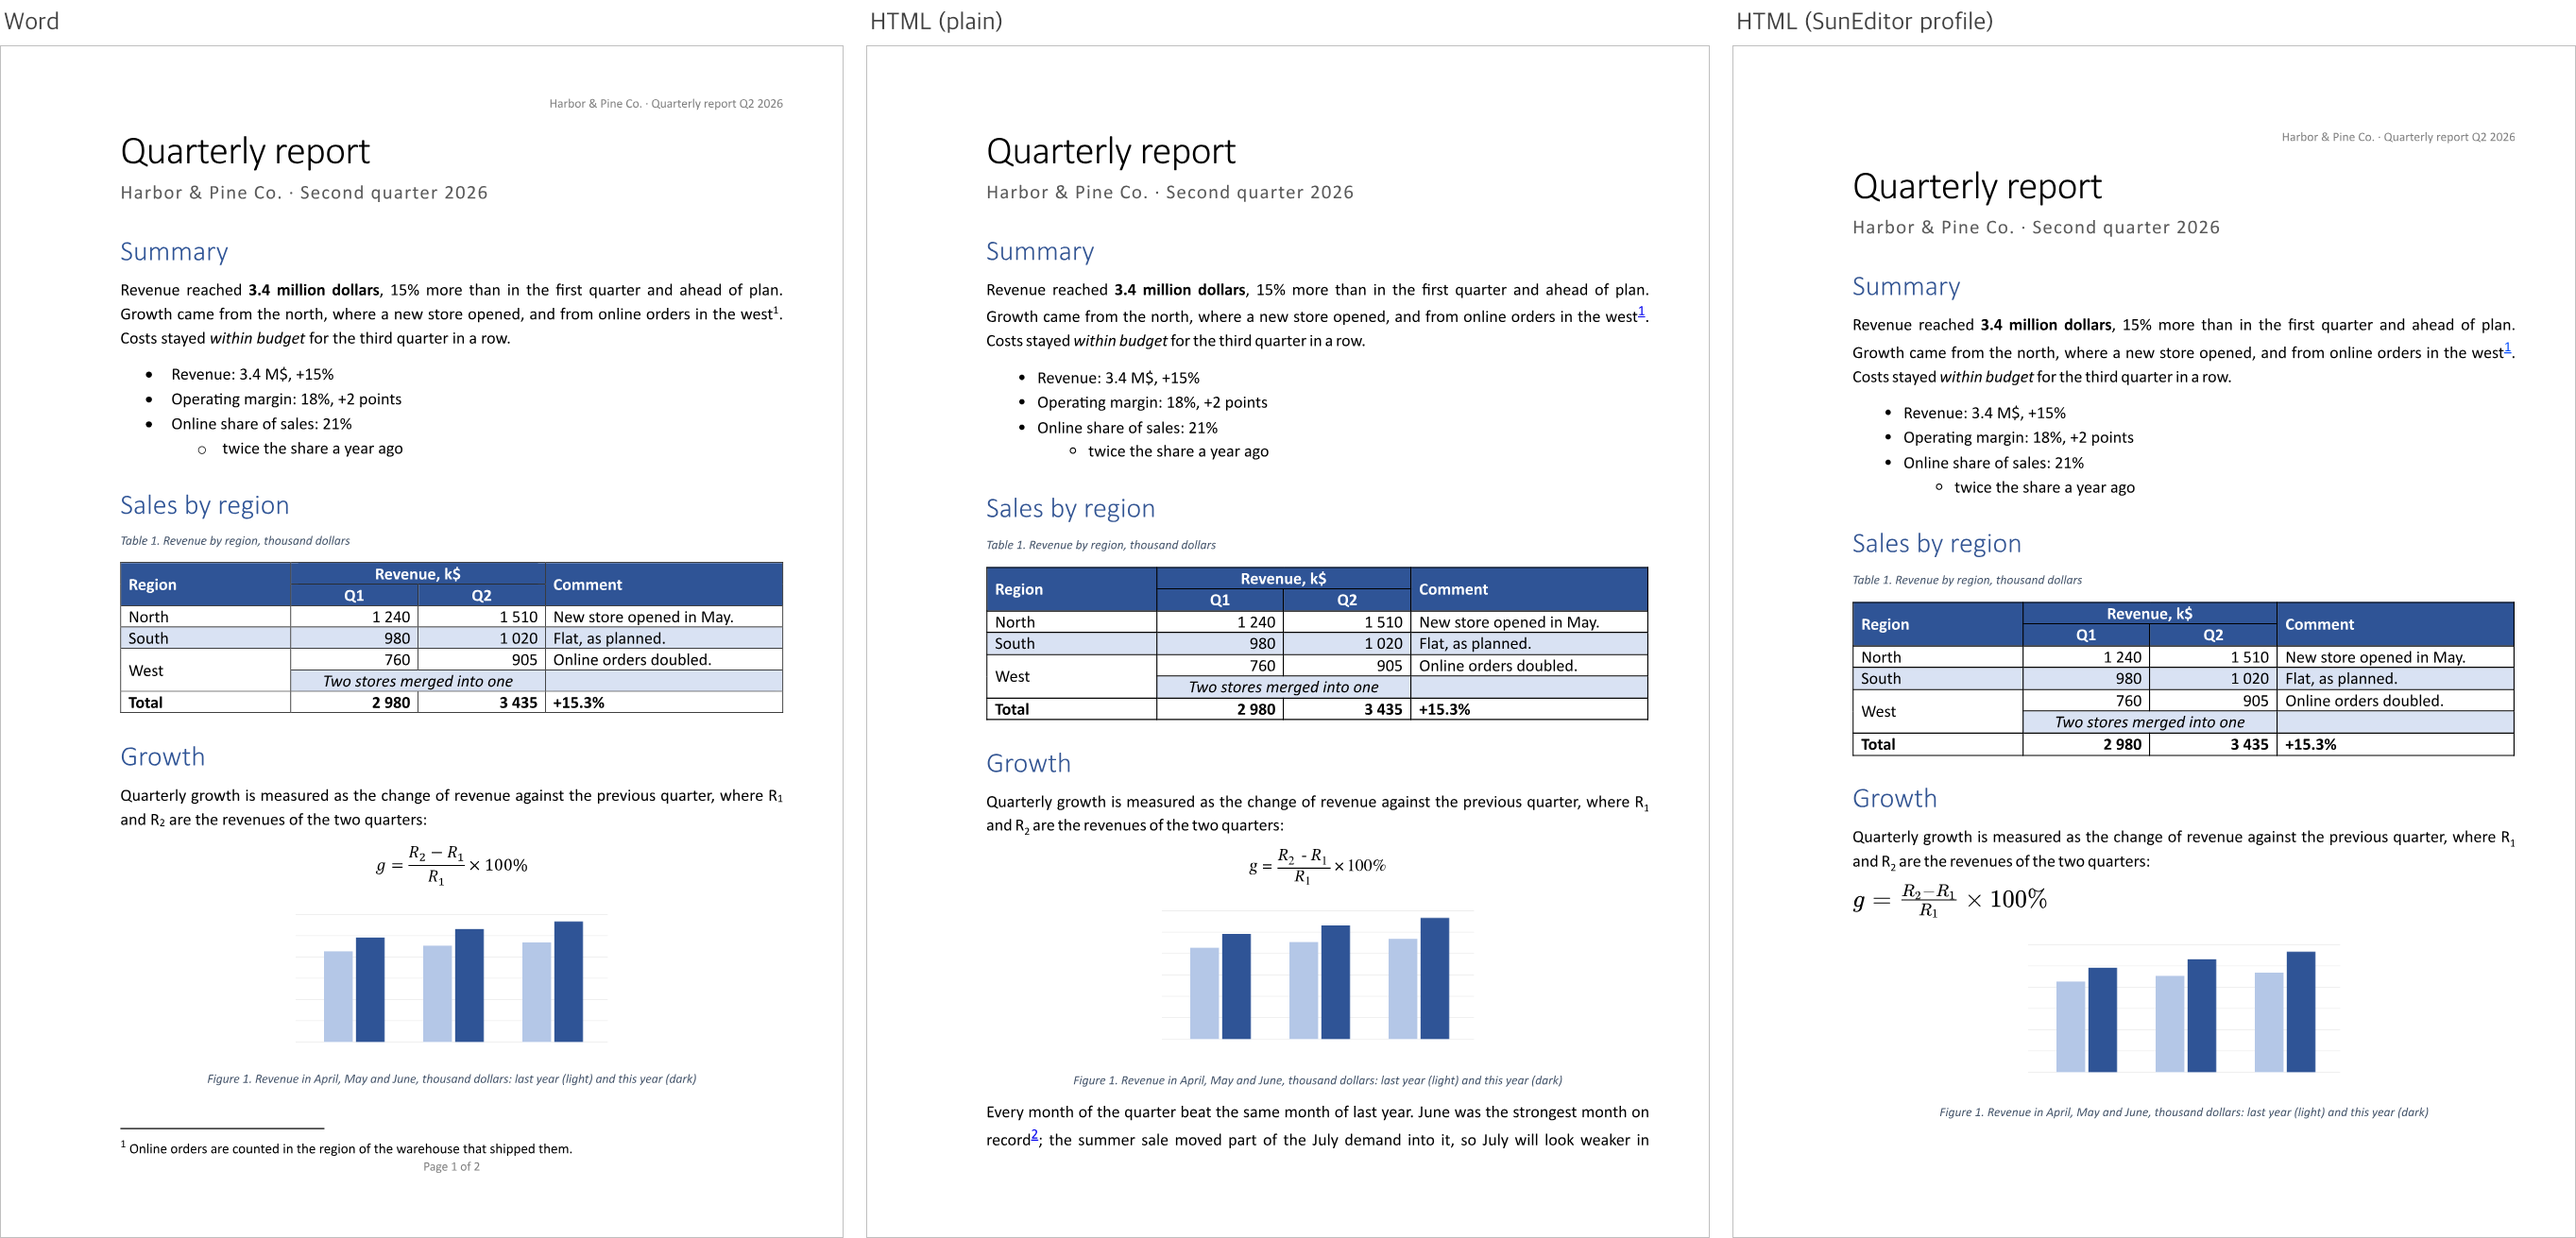
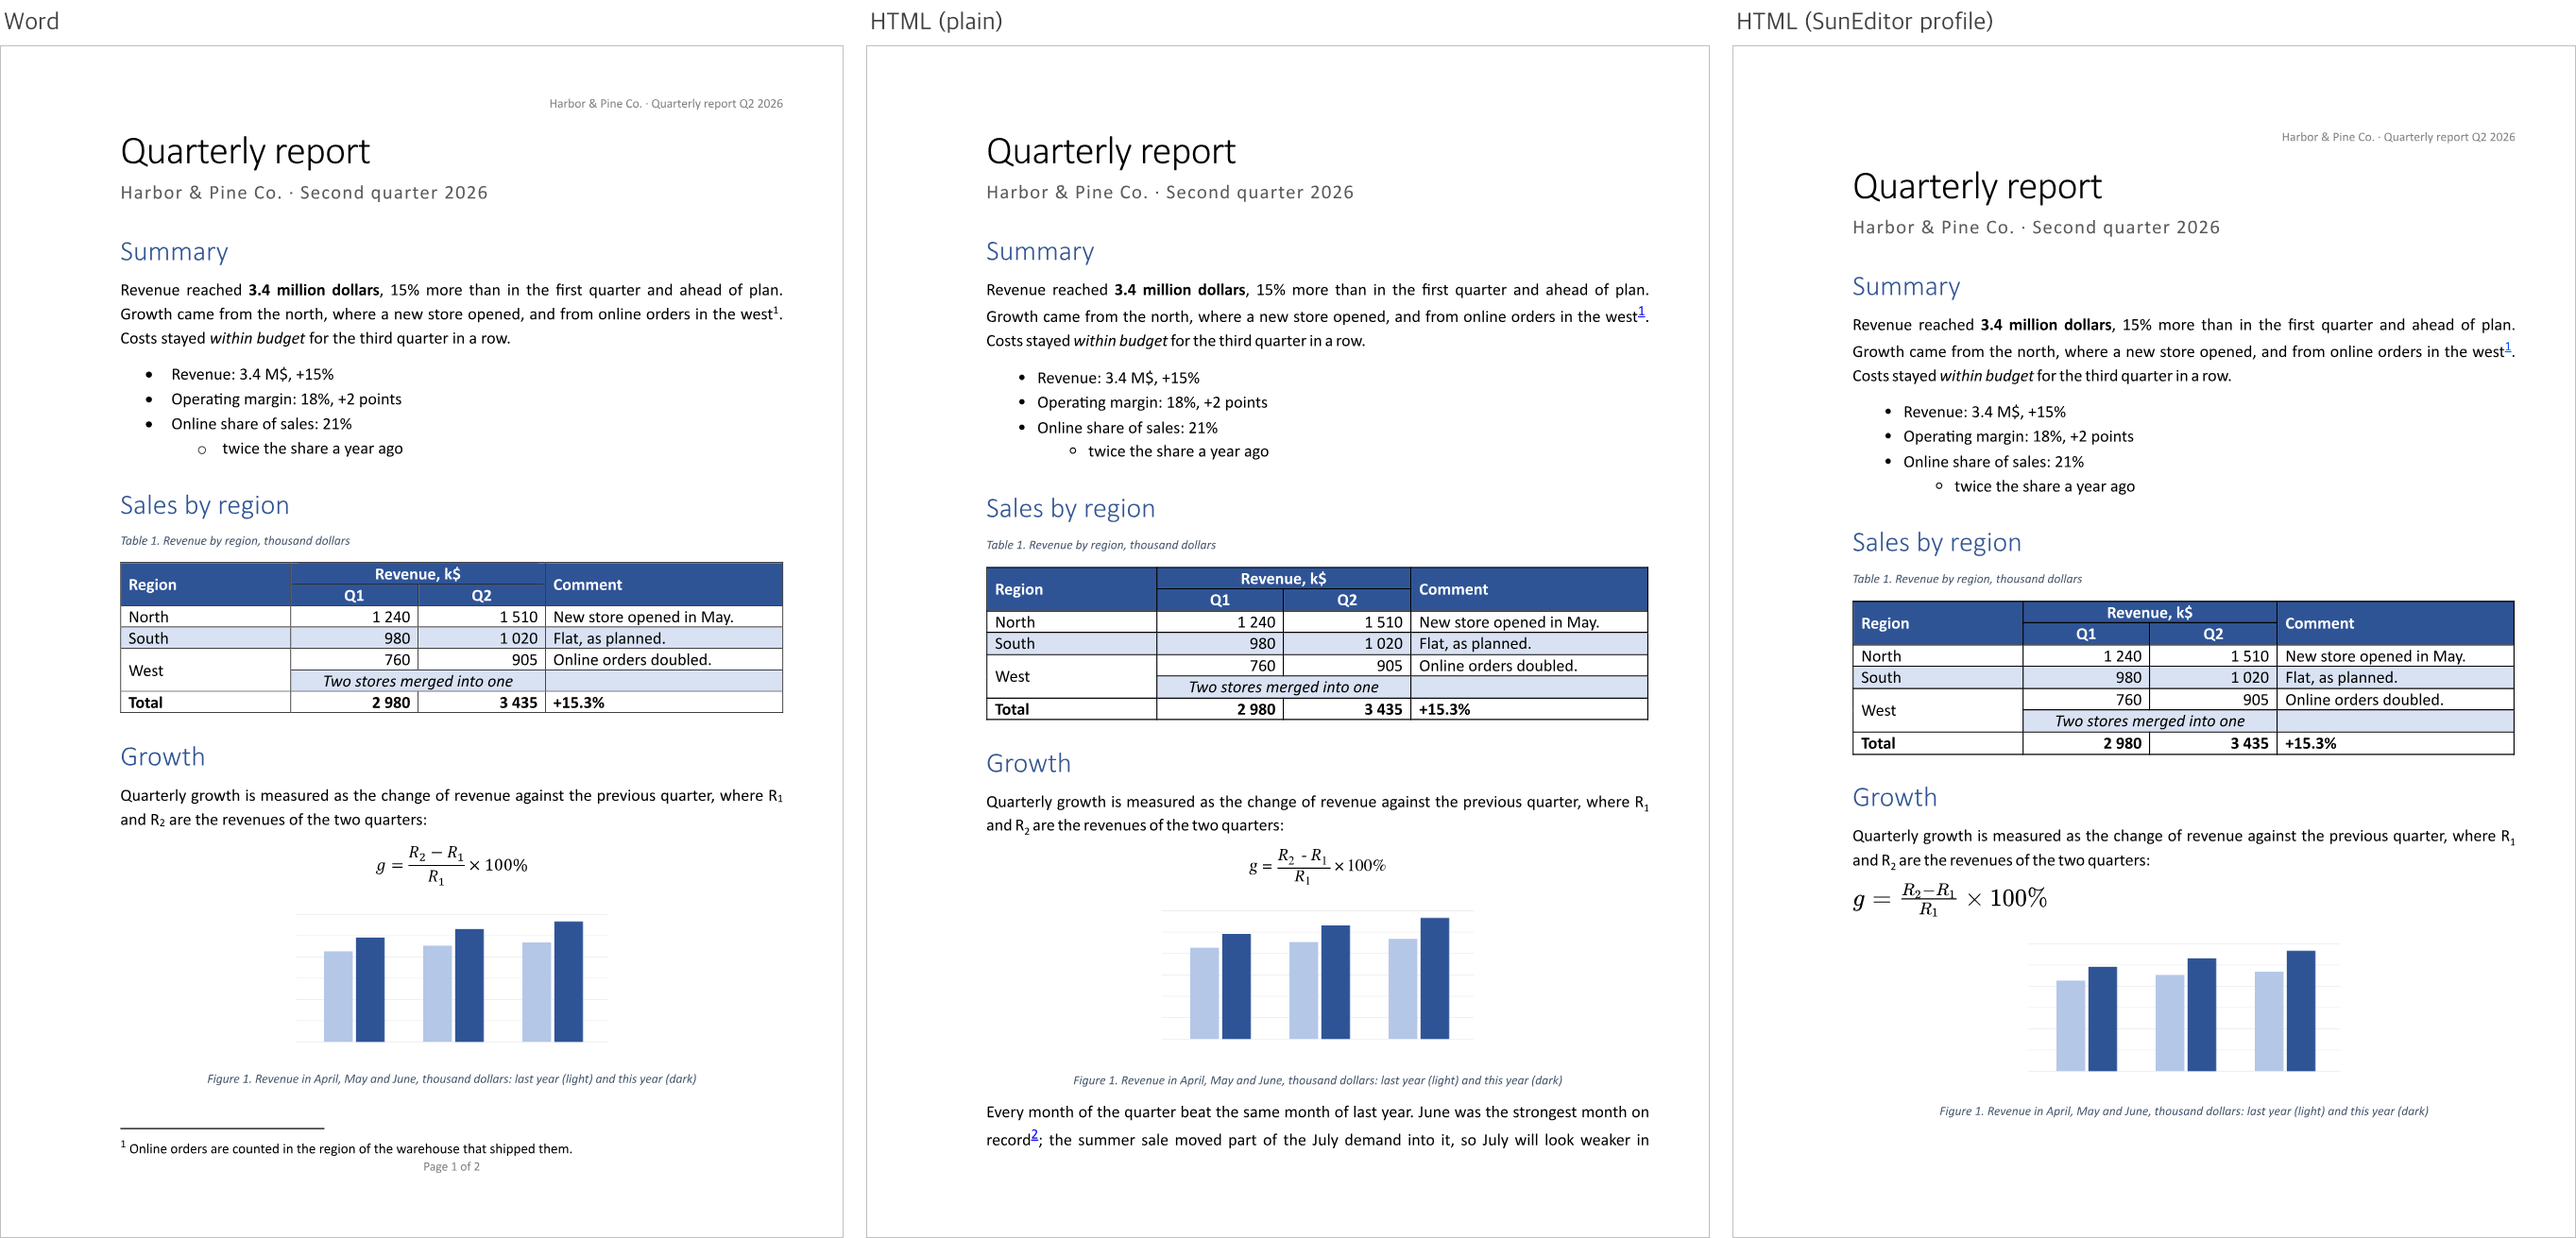
Publish the examples, and let CI keep them current
examples/build.php also writes the index page the examples are
published with, a workflow deploys examples/ to GitHub Pages, and CI
runs the build and fails when what is committed is not what the library
writes (the build is reproducible; only the Word steps are not).

diff --git a/examples/index.html b/examples/index.html
@@ -1,0 +1,52 @@
+<!DOCTYPE html>
+<html lang="en">
+<head>
+<meta charset="utf-8">
+<meta name="viewport" content="width=device-width, initial-scale=1">
+<title>kovami/htmldocx — examples</title>
+<style>
+body { font-family: system-ui, sans-serif; line-height: 1.5; margin: 2rem auto; max-width: 48rem; padding: 0 1rem; color: #1b1b1b; }
+h1 { margin-bottom: 0.25rem; }
+p.lead { margin-top: 0; color: #555; }
+section { margin-top: 2rem; }
+ul { padding-left: 1.25rem; }
+li { margin: 0.25rem 0; }
+a { color: #2f5496; }
+footer { margin-top: 3rem; color: #555; font-size: 0.9rem; }
+</style>
+</head>
+<body>
+<h1>kovami/htmldocx</h1>
+<p class="lead">Every file here is written by <code>examples/build-word.sh</code>: Word writes and prints the documents, the library converts them.</p>
+<section>
+<h2>A report Word wrote</h2>
+<p>Source: <a href="showcase.docx">showcase.docx</a></p>
+<ul>
+<li><a href="showcase.html">showcase.html</a> — the plain HTML the library writes from it</li>
+<li><a href="showcase.suneditor.html">showcase.suneditor.html</a> — the same document in the SunEditor profile</li>
+<li><a href="showcase.pdf">showcase.pdf</a> — Word's own print of the document, to compare with</li>
+<li><a href="images/showcase-p1.png">images/showcase-p1.png</a> — page 1 side by side: Word, plain HTML, SunEditor</li>
+<li><a href="images/showcase-p2.png">images/showcase-p2.png</a> — page 2 side by side</li>
+</ul>
+</section>
+<section>
+<h2>There and back again</h2>
+<p>Source: <a href="roundtrip.docx">roundtrip.docx</a></p>
+<ul>
+<li><a href="roundtrip.pdf">roundtrip.pdf</a> — the document after DOCX → HTML → DOCX, printed by Word</li>
+<li><a href="images/roundtrip-p1.png">images/roundtrip-p1.png</a> — page 1 next to the original</li>
+<li><a href="images/roundtrip-p2.png">images/roundtrip-p2.png</a> — page 2 next to the original</li>
+</ul>
+</section>
+<section>
+<h2>From an editor to Word</h2>
+<p>Source: <a href="editor.html">editor.html</a></p>
+<ul>
+<li><a href="editor.docx">editor.docx</a> — the DOCX the library writes from that HTML</li>
+<li><a href="editor.pdf">editor.pdf</a> — Word's print of it</li>
+<li><a href="images/editor-p1.png">images/editor-p1.png</a> — the HTML in a browser next to the DOCX in Word</li>
+</ul>
+</section>
+<footer><a href="https://github.com/kovami/htmldocx">The library on GitHub</a></footer>
+</body>
+</html>

diff --git a/examples/showcase.suneditor.html b/examples/showcase.suneditor.html
@@ -21,7 +21,7 @@ col { display: table-column; }
 head, script, style, template, title, meta, link, base, noscript, rp,
 datalist, param, source, track, [hidden] { display: none; }
 
-body { line-height: 1.5; }
+body { font-family: "Helvetica Neue"; font-size: 13px; color: #333333; line-height: 1.5; }
 
 p { margin: 0 0 10px 0; }
 h1 { font-size: 2em; font-weight: bold; margin: 0.67em 0; }
@@ -35,6 +35,7 @@ b, strong { font-weight: bold; }
 i, em, cite, dfn, var, address { font-style: italic; }
 u, ins { text-decoration: underline; }
 s, strike, del { text-decoration: line-through; }
+sub, sup { font-size: 75%; }
 sub { vertical-align: sub; }
 sup { vertical-align: super; }
 small { font-size: smaller; }
@@ -53,10 +54,13 @@ blockquote {
     border-left: 5px solid #b1b1b1;
 }
 
-ul, ol { margin: 0 0 10px; padding-left: 40px; }
-li ul, li ol { margin: 0; }
+ul, ol { margin: 1em 0; padding-left: 40px; }
+ol ol, ol ul, ul ol, ul ul { margin: 0; }
+li { margin-bottom: 5px; }
 ul { list-style-type: disc; }
 ol { list-style-type: decimal; }
+ol ol, ul ol { list-style-type: lower-alpha; }
+ol ol ol, ul ol ol, ul ul ol { list-style-type: upper-roman; }
 ul ul, ol ul { list-style-type: circle; }
 ul ul ul, ul ol ul, ol ul ul, ol ol ul { list-style-type: square; }
 dl { margin: 0 0 10px; }

diff --git a/examples/build.php b/examples/build.php
@@ -40,6 +40,76 @@ HtmlDocx::plain($options->with(['title' => 'Meeting notes']))
     ->fromHtmlFile("{$here}/editor.html")
     ->saveDocx("{$here}/editor.docx");
 
-foreach (['showcase.html', 'showcase.suneditor.html', 'roundtrip.docx', 'editor.docx'] as $file) {
+// The page that lists them, published with the examples on GitHub Pages.
+file_put_contents("{$here}/index.html", index());
+
+foreach (['showcase.html', 'showcase.suneditor.html', 'roundtrip.docx', 'editor.docx', 'index.html'] as $file) {
     echo "examples/{$file}\n";
+}
+
+function index(): string
+{
+    $sections = [
+        ['A report Word wrote', 'showcase.docx', [
+            ['showcase.html', 'the plain HTML the library writes from it'],
+            ['showcase.suneditor.html', 'the same document in the SunEditor profile'],
+            ['showcase.pdf', 'Word\'s own print of the document, to compare with'],
+            ['images/showcase-p1.png', 'page 1 side by side: Word, plain HTML, SunEditor'],
+            ['images/showcase-p2.png', 'page 2 side by side'],
+        ]],
+        ['There and back again', 'roundtrip.docx', [
+            ['roundtrip.pdf', 'the document after DOCX → HTML → DOCX, printed by Word'],
+            ['images/roundtrip-p1.png', 'page 1 next to the original'],
+            ['images/roundtrip-p2.png', 'page 2 next to the original'],
+        ]],
+        ['From an editor to Word', 'editor.html', [
+            ['editor.docx', 'the DOCX the library writes from that HTML'],
+            ['editor.pdf', 'Word\'s print of it'],
+            ['images/editor-p1.png', 'the HTML in a browser next to the DOCX in Word'],
+        ]],
+    ];
+    $html = [];
+
+    foreach ($sections as [$title, $source, $links]) {
+        $items = array_map(
+            static fn(array $link): string => sprintf('<li><a href="%s">%s</a> — %s</li>', $link[0], $link[0], $link[1]),
+            $links,
+        );
+        $html[] = sprintf(
+            "<section>\n<h2>%s</h2>\n<p>Source: <a href=\"%s\">%s</a></p>\n<ul>\n%s\n</ul>\n</section>",
+            $title,
+            $source,
+            $source,
+            implode("\n", $items),
+        );
+    }
+
+    $sections_html = implode("\n", $html);
+
+    return <<<HTML
+        <!DOCTYPE html>
+        <html lang="en">
+        <head>
+        <meta charset="utf-8">
+        <meta name="viewport" content="width=device-width, initial-scale=1">
+        <title>kovami/htmldocx — examples</title>
+        <style>
+        body { font-family: system-ui, sans-serif; line-height: 1.5; margin: 2rem auto; max-width: 48rem; padding: 0 1rem; color: #1b1b1b; }
+        h1 { margin-bottom: 0.25rem; }
+        p.lead { margin-top: 0; color: #555; }
+        section { margin-top: 2rem; }
+        ul { padding-left: 1.25rem; }
+        li { margin: 0.25rem 0; }
+        a { color: #2f5496; }
+        footer { margin-top: 3rem; color: #555; font-size: 0.9rem; }
+        </style>
+        </head>
+        <body>
+        <h1>kovami/htmldocx</h1>
+        <p class="lead">Every file here is written by <code>examples/build-word.sh</code>: Word writes and prints the documents, the library converts them.</p>
+        {$sections_html}
+        <footer><a href="https://github.com/kovami/htmldocx">The library on GitHub</a></footer>
+        </body>
+        </html>
+        HTML;
 }
